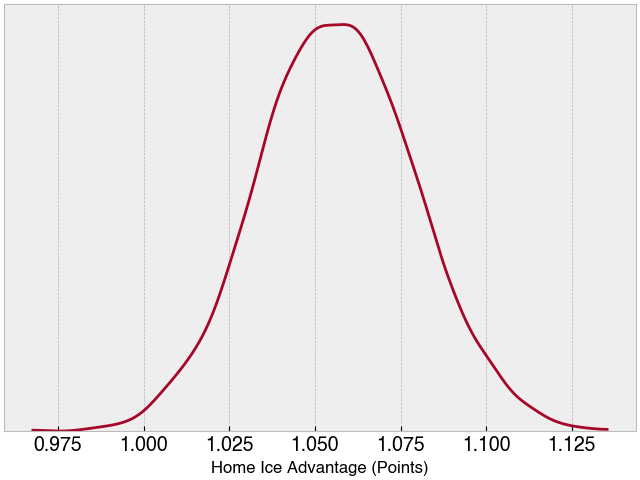
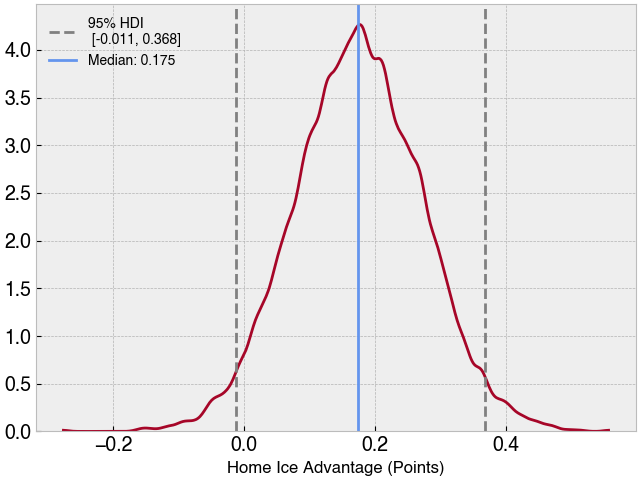
fix home ice

diff --git a/web_app.py b/web_app.py
@@ -134,7 +134,7 @@ def about_model_page(directory_path):
     st.image(str(directory_path / Path(r"visualizations/goal_suppression.png")), caption="Goal-Suppression Parameter",width=800)
 
     st.write("""
-    Lastly, the home-ice advantage parameter is found to provide just over one goal's worth of benefit to the home team (95% CI is 1.011 to 1.101 goals).
+    Lastly, the home-ice advantage parameter is found to provide around 0.175 goals, with a 95% HDI of [-0.011, 0.368].
     """)
     st.image(str(directory_path / Path(r"visualizations/home_ice.png")), caption="Home Ice Parameter", width=600)
 
